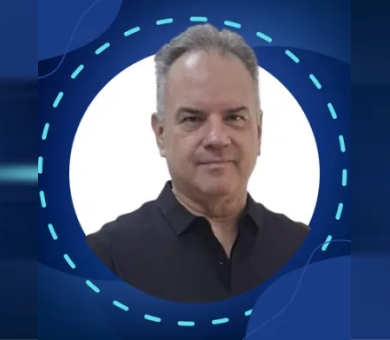
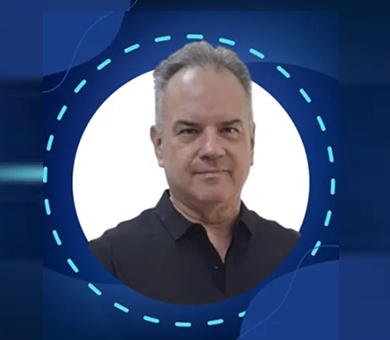
last style of the cards.

diff --git a/script.js b/script.js
@@ -133,7 +133,7 @@
         '<li style="margin:0 0 6px">Municipal and regional governance models</li>' +
         '<li style="margin:0 0 6px">Welfare and community-based services</li>' +
         '<li style="margin:0 0 6px">Multi-generational community centers</li>' +
-        '<li style="margin:0 0 6px">Government agencies and policy frameworks</li>' +
+        '<li style="margin:0 0 6px">Government agencies aand policy frameworks</li>' +
         '<li style="margin:0">Innovation hubs, investment entities, and gerontechnology initiatives</li>' +
       '</ul>';
 
@@ -264,18 +264,18 @@
         '<div class="card-front" style="position:absolute;top:0;left:0;right:0;bottom:0;backface-visibility:hidden;background:white;border-radius:14px;border:2.5px solid '+c.border+';overflow:hidden;display:flex;flex-direction:column;height:100%;min-height:0;box-shadow:0 2px 12px rgba(0,0,0,0.08)">' +
           '<div class="card-photo-wrap" style="flex:3 1 0;min-height:150px;min-width:0;overflow:hidden;display:flex;align-items:stretch;justify-content:stretch">'+photoHtml+'</div>' +
           '<div style="flex:2 1 0;min-height:0;padding:12px 14px 6px;overflow:hidden;background:'+(c.light||c.bg)+';color:'+(c.text||'#334155')+';display:flex;flex-direction:column;align-items:center;text-align:center;gap:4px">' +
-            '<div style="flex-shrink:0;display:flex;flex-direction:column;gap:6px"><div style="font-weight:800;font-size:16px;color:'+(c.text||'#0f172a')+'">'+nameEn+'</div>'+nameJaHtml+'<div style="font-family:Arial;direction:rtl;font-size:16px;color:'+(c.text||'#475569')+'">'+nameHe+'</div><div style="font-size:13px;font-weight:600;color:'+(c.text||'#334155')+';margin-top:6px">'+org+'</div></div>' +
-            '<div style="display:flex;align-items:center;justify-content:center;min-height:0;margin-top:2px"><div style="background:'+c.bg+';color:white;font-size:14px;font-weight:700;padding:6px 14px;border-radius:20px">'+escapeHtml(p.sector)+'</div></div>' +
+            '<div class="card-front-names" style="flex-shrink:0;display:flex;flex-direction:column;gap:6px"><div style="font-weight:800;font-size:16px;color:'+(c.text||'#0f172a')+'">'+nameEn+'</div>'+nameJaHtml+'<div style="font-family:Arial;direction:rtl;font-size:16px;color:'+(c.text||'#475569')+'">'+nameHe+'</div><div class="card-front-org" style="font-size:13px;font-weight:600;color:'+(c.text||'#334155')+';margin-top:6px">'+org+'</div></div>' +
+            '<div class="card-front-label-wrap" style="display:flex;align-items:center;justify-content:center;min-height:0;margin-top:2px"><div style="background:'+c.bg+';color:white;font-size:14px;font-weight:700;padding:6px 14px;border-radius:20px">'+escapeHtml(p.sector)+'</div></div>' +
           '</div>' +
           '<div style="flex-shrink:0;text-align:center;padding:8px;font-size:10px;color:white;background:'+c.bg+'">View Details</div>' +
         '</div>' +
-        '<div class="card-back" style="position:absolute;top:0;left:0;right:0;bottom:0;backface-visibility:hidden;transform:rotateY(180deg);background:linear-gradient(160deg,'+c.bg+','+c.bg+'ee);border-radius:14px;padding:18px;color:white;display:flex;flex-direction:column;gap:10px">' +
-          '<div style="display:flex;gap:12px;align-items:center"><div class="participant-back-thumb" style="width:60px;height:60px;border-radius:6px;overflow:hidden;border:2px solid rgba(255,255,255,0.35);flex-shrink:0;background:rgba(255,255,255,0.1)">'+backImg+'</div><div><div style="font-weight:800;font-size:16px">'+nameEn+'</div>'+nameJaBackHtml+'<div style="font-family:Arial;direction:rtl;font-size:12px;opacity:0.75">'+nameHe+'</div></div></div>' +
-          '<div style="height:1px;background:rgba(255,255,255,0.2)"></div>' +
-          '<div style="flex:1;min-height:0"><div style="font-size:13.5px"><strong>'+org+'</strong><br/><span style="font-family:Arial;direction:rtl;font-size:11px;opacity:0.65">'+orgHe+'</span></div>' +
-          '<div style="margin-top:8px;font-size:13.5px"><strong>'+role+'</strong><br/><span style="font-family:Arial;direction:rtl;font-size:11px;opacity:0.65">'+roleHe+'</span></div>' +
+        '<div class="card-back" style="position:absolute;top:0;left:0;right:0;bottom:0;backface-visibility:hidden;transform:rotateY(180deg);background:linear-gradient(160deg,'+c.bg+','+c.bg+'ee);border-radius:14px;padding:18px;color:white;display:flex;flex-direction:column;gap:0;overflow:hidden">' +
+          '<div class="card-back-upper" style="flex:1 1 33%;min-height:140px;display:flex;flex-direction:column;align-items:center;justify-content:flex-start;padding:16px 0 20px;gap:12px"><div class="participant-back-thumb" style="width:140px;height:140px;min-width:140px;min-height:140px;border-radius:50%;overflow:hidden;border:3px solid rgba(255,255,255,0.5);flex-shrink:0;background:rgba(255,255,255,0.1);box-shadow:0 4px 12px rgba(0,0,0,0.2)">'+backImg+'</div><div style="text-align:center;display:flex;flex-direction:column;gap:6px"><div style="font-weight:800;font-size:17px">'+nameEn+'</div>'+nameJaBackHtml+'<div style="font-family:Arial;direction:rtl;font-size:13px;opacity:0.88">'+nameHe+'</div></div></div>' +
+          '<div style="height:1px;background:rgba(255,255,255,0.25);flex-shrink:0"></div>' +
+          '<div style="flex:1;min-height:0;overflow-y:auto;padding:12px 0 8px"><div style="font-size:13px"><strong>'+org+'</strong><br/><span style="font-family:Arial;direction:rtl;font-size:11px;opacity:0.7">'+orgHe+'</span></div>' +
+          '<div style="margin-top:8px;font-size:13px"><strong>'+role+'</strong><br/><span style="font-family:Arial;direction:rtl;font-size:11px;opacity:0.7">'+roleHe+'</span></div>' +
           '<div style="margin-top:8px"><a href="mailto:'+email+'" style="color:#a5b4fc" onclick="event.stopPropagation()">'+email+'</a></div></div>' +
-          '<div style="text-align:center;font-size:10px;opacity:0.4">TAP TO FLIP BACK</div>' +
+          '<div style="text-align:center;font-size:10px;opacity:0.5;flex-shrink:0;padding-top:4px">TAP TO FLIP BACK</div>' +
         '</div>' +
       '</div></div>';
   }

diff --git a/index.html b/index.html
@@ -115,6 +115,8 @@
       object-fit: cover !important;
       object-position: center center !important;
     }
+    .participant-card .card-back-upper { flex: 1 1 33% !important; min-height: 140px !important; }
+    .participant-card .participant-back-thumb { width: 140px !important; height: 140px !important; min-width: 140px !important; min-height: 140px !important; }
     .about-banner h1 { font-family: 'Inter', sans-serif; }
     @media (max-width: 900px) {
       .about-banner h1 { font-size: 24px !important; }
@@ -144,6 +146,10 @@
       .participant-card .card-photo-wrap { flex: 5 1 0 !important; min-height: 200px !important; height: auto !important; margin-bottom: 0 !important; }
       .participant-card .card-photo-wrap .participant-photo-inner { min-height: 0 !important; }
       .participant-card .card-front > div:nth-child(2) { flex: 2 1 0 !important; min-height: 0 !important; overflow: hidden !important; }
+      .participant-card .card-front-names { gap: 4px !important; }
+      .participant-card .card-front-label-wrap { padding-bottom: 10px !important; margin-top: 8px !important; }
+      .participant-card .participant-back-thumb { width: 160px !important; height: 160px !important; min-width: 160px !important; min-height: 160px !important; }
+      .participant-card .card-back-upper { min-height: 160px !important; }
       .participant-card .card-front > div:nth-child(3) { flex-shrink: 0 !important; }
       .team-content { padding: 28px 16px 48px !important; }
       .team-content h1 { font-size: 26px !important; margin-bottom: 28px !important; }
@@ -157,6 +163,8 @@
     }
 
     @media (min-width: 901px) {
+      .participant-card .card-front > div:nth-child(2) { padding-bottom: 2px !important; }
+      .participant-card .card-front-org { margin-top: 10px !important; }
       .stats-bar-wrap button { padding: 10px 12px !important; min-height: 56px !important; gap: 6px !important; }
       .stats-bar-wrap button > span:last-child { font-size: 15px !important; }
       .stats-bar-wrap button > span:first-child span:last-child { font-size: 15px !important; }
